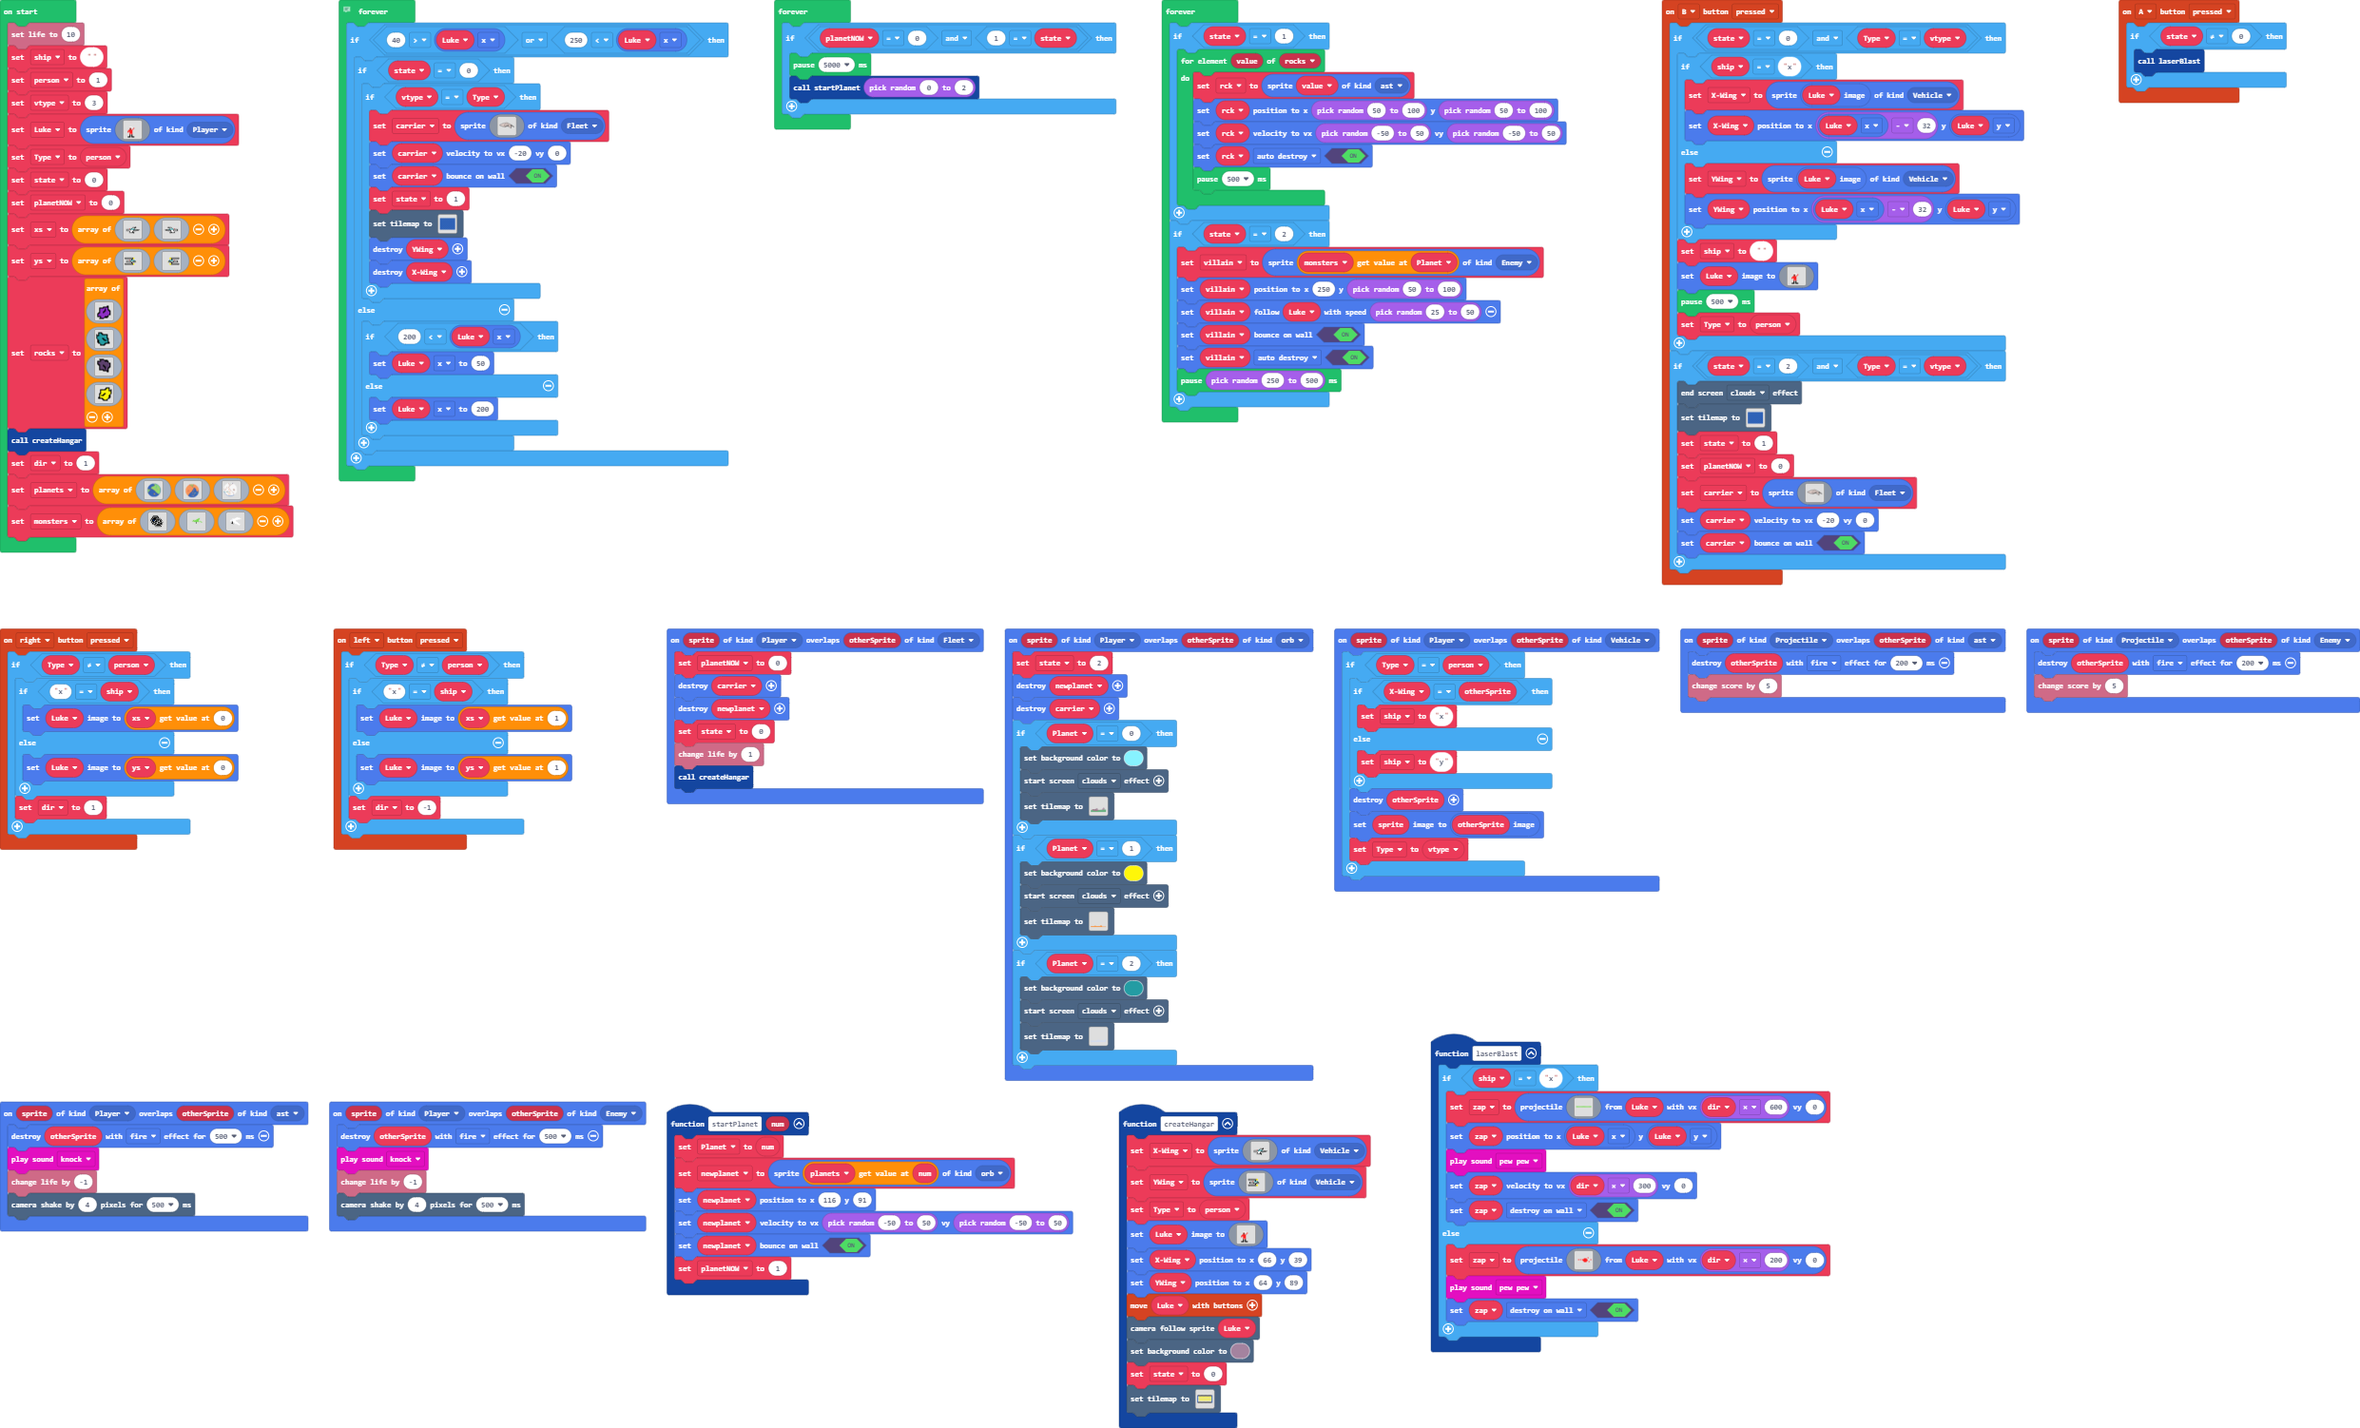
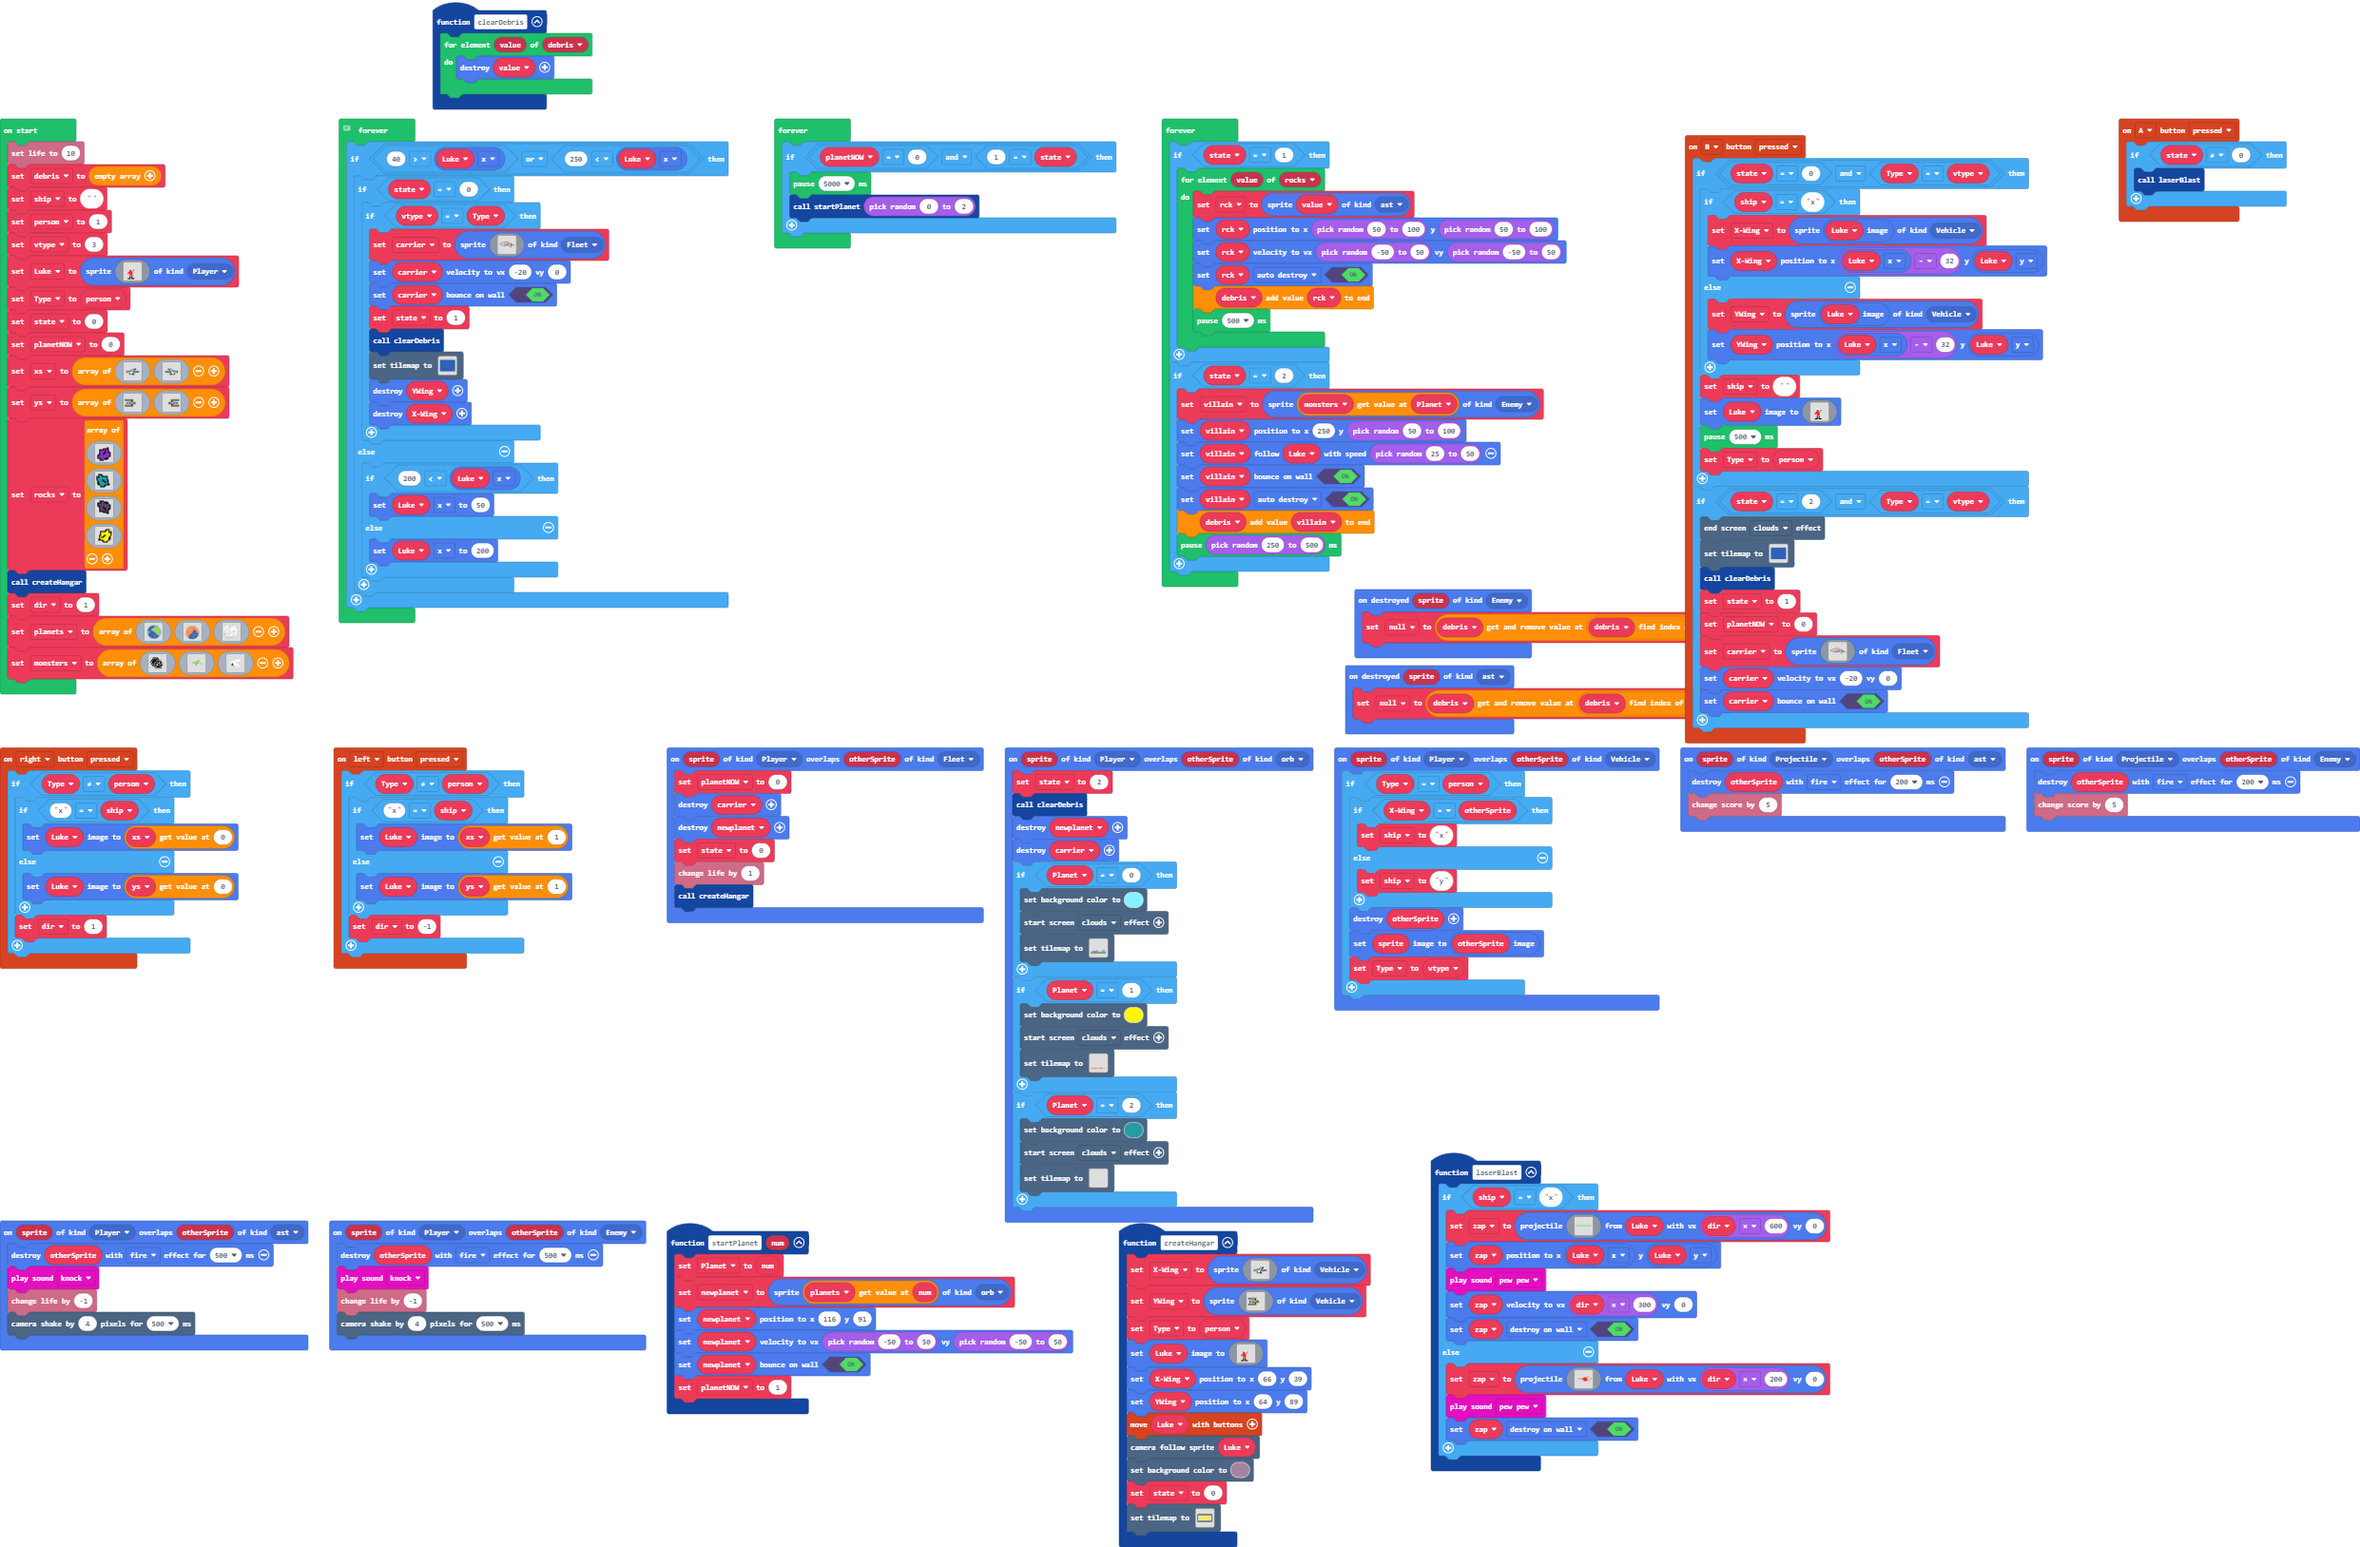
Update main.blocks, main.ts

diff --git a/main.ts b/main.ts
@@ -4,6 +4,9 @@ namespace SpriteKind {
     export const ast = SpriteKind.create()
     export const Fleet = SpriteKind.create()
 }
+sprites.onDestroyed(SpriteKind.ast, function (sprite) {
+    _null = debris.removeAt(debris.indexOf(sprite))
+})
 sprites.onOverlap(SpriteKind.Player, SpriteKind.Vehicle, function (sprite, otherSprite) {
     if (Type == person) {
         if (XWing == otherSprite) {
@@ -33,6 +36,7 @@ controller.B.onEvent(ControllerButtonEvent.Pressed, function () {
     if (state == 2 && Type == vtype) {
         effects.clouds.endScreenEffect()
         tiles.setTilemap(tilemap`space`)
+        clearDebris()
         state = 1
         planetNOW = 0
         carrier = sprites.create(assets.image`FleetCarrier`, SpriteKind.Fleet)
@@ -58,6 +62,11 @@ controller.A.onEvent(ControllerButtonEvent.Pressed, function () {
         laserBlast()
     }
 })
+function clearDebris () {
+    for (let value of debris) {
+        value.destroy()
+    }
+}
 function startPlanet (num: number) {
     Planet = num
     newplanet = sprites.create(planets[num], SpriteKind.orb)
@@ -86,6 +95,7 @@ sprites.onOverlap(SpriteKind.Player, SpriteKind.Fleet, function (sprite, otherSp
 })
 sprites.onOverlap(SpriteKind.Player, SpriteKind.orb, function (sprite, otherSprite) {
     state = 2
+    clearDebris()
     newplanet.destroy()
     carrier.destroy()
     if (Planet == 0) {
@@ -131,6 +141,9 @@ function laserBlast () {
         zap.setFlag(SpriteFlag.DestroyOnWall, true)
     }
 }
+sprites.onDestroyed(SpriteKind.Enemy, function (sprite) {
+    _null = debris.removeAt(debris.indexOf(sprite))
+})
 sprites.onOverlap(SpriteKind.Player, SpriteKind.ast, function (sprite, otherSprite) {
     otherSprite.destroy(effects.fire, 500)
     music.knock.play()
@@ -155,6 +168,7 @@ let Planet = 0
 let carrier: Sprite = null
 let YWing: Sprite = null
 let XWing: Sprite = null
+let _null: Sprite = null
 let planets: Image[] = []
 let dir = 0
 let ys: Image[] = []
@@ -166,7 +180,9 @@ let Luke: Sprite = null
 let vtype = 0
 let person = 0
 let ship = ""
+let debris: Sprite[] = []
 info.setLife(10)
+debris = []
 ship = ""
 person = 1
 vtype = 3
@@ -196,6 +212,7 @@ forever(function () {
                 carrier.setVelocity(-20, 0)
                 carrier.setBounceOnWall(true)
                 state = 1
+                clearDebris()
                 tiles.setTilemap(tilemap`space`)
                 YWing.destroy()
                 XWing.destroy()
@@ -222,6 +239,7 @@ forever(function () {
             rck.setPosition(randint(50, 100), randint(50, 100))
             rck.setVelocity(randint(-50, 50), randint(-50, 50))
             rck.setFlag(SpriteFlag.AutoDestroy, true)
+            debris.push(rck)
             pause(500)
         }
     }
@@ -231,6 +249,7 @@ forever(function () {
         villain.follow(Luke, randint(25, 50))
         villain.setBounceOnWall(true)
         villain.setFlag(SpriteFlag.AutoDestroy, true)
+        debris.push(villain)
         pause(randint(250, 500))
     }
 })
